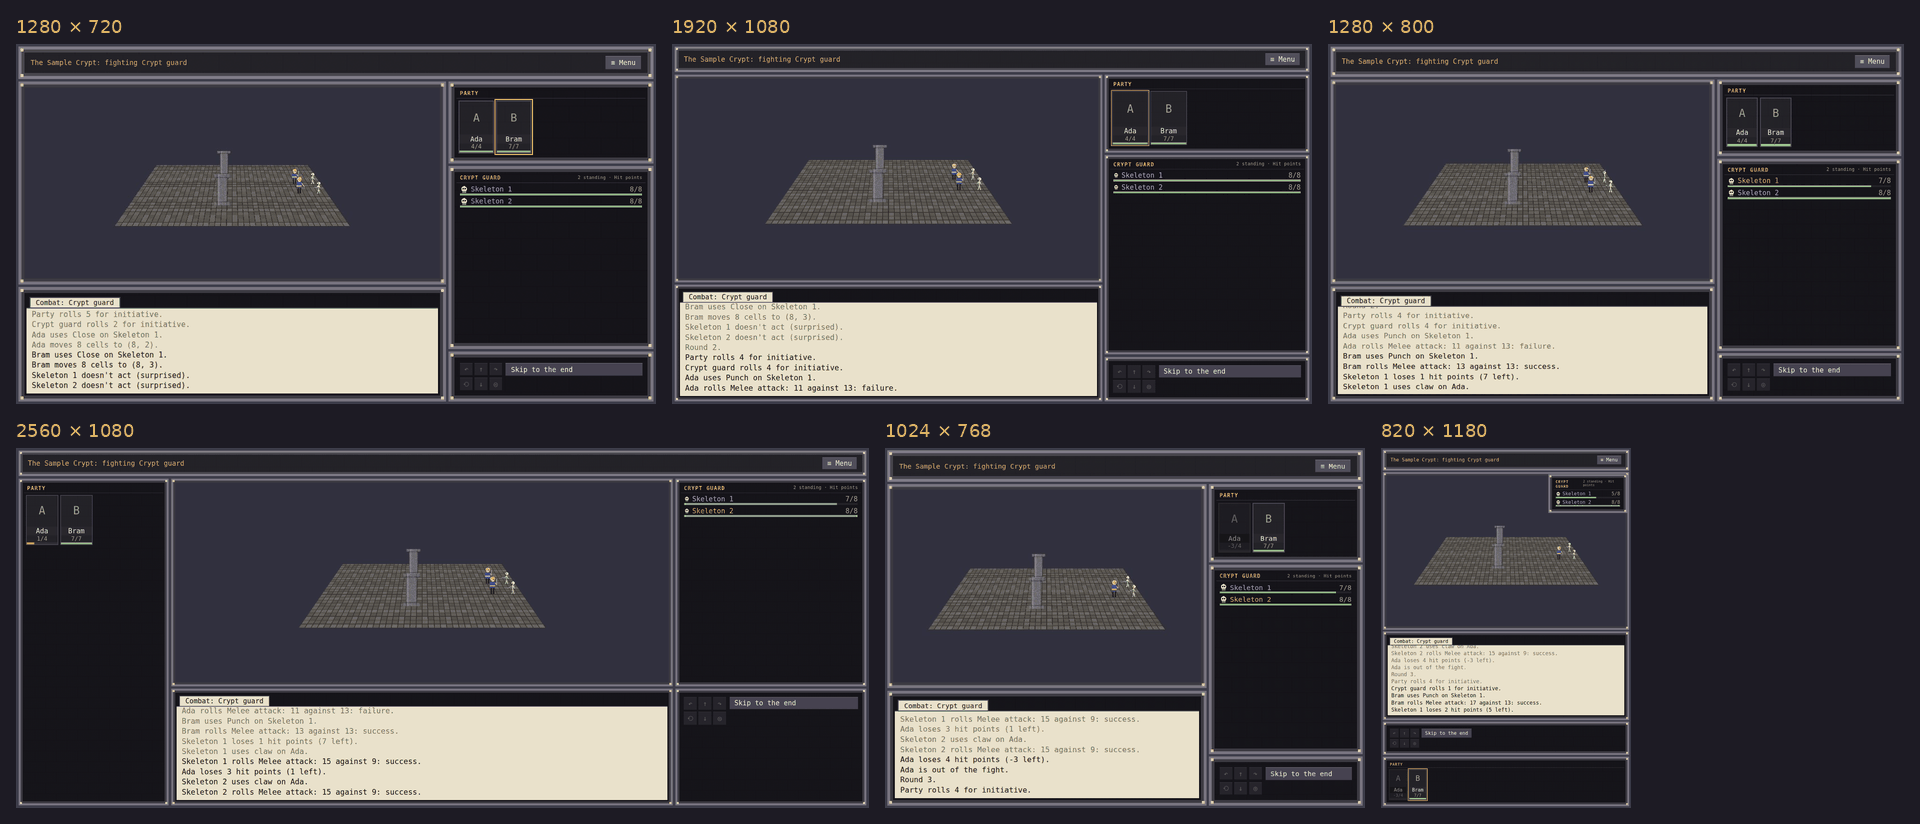
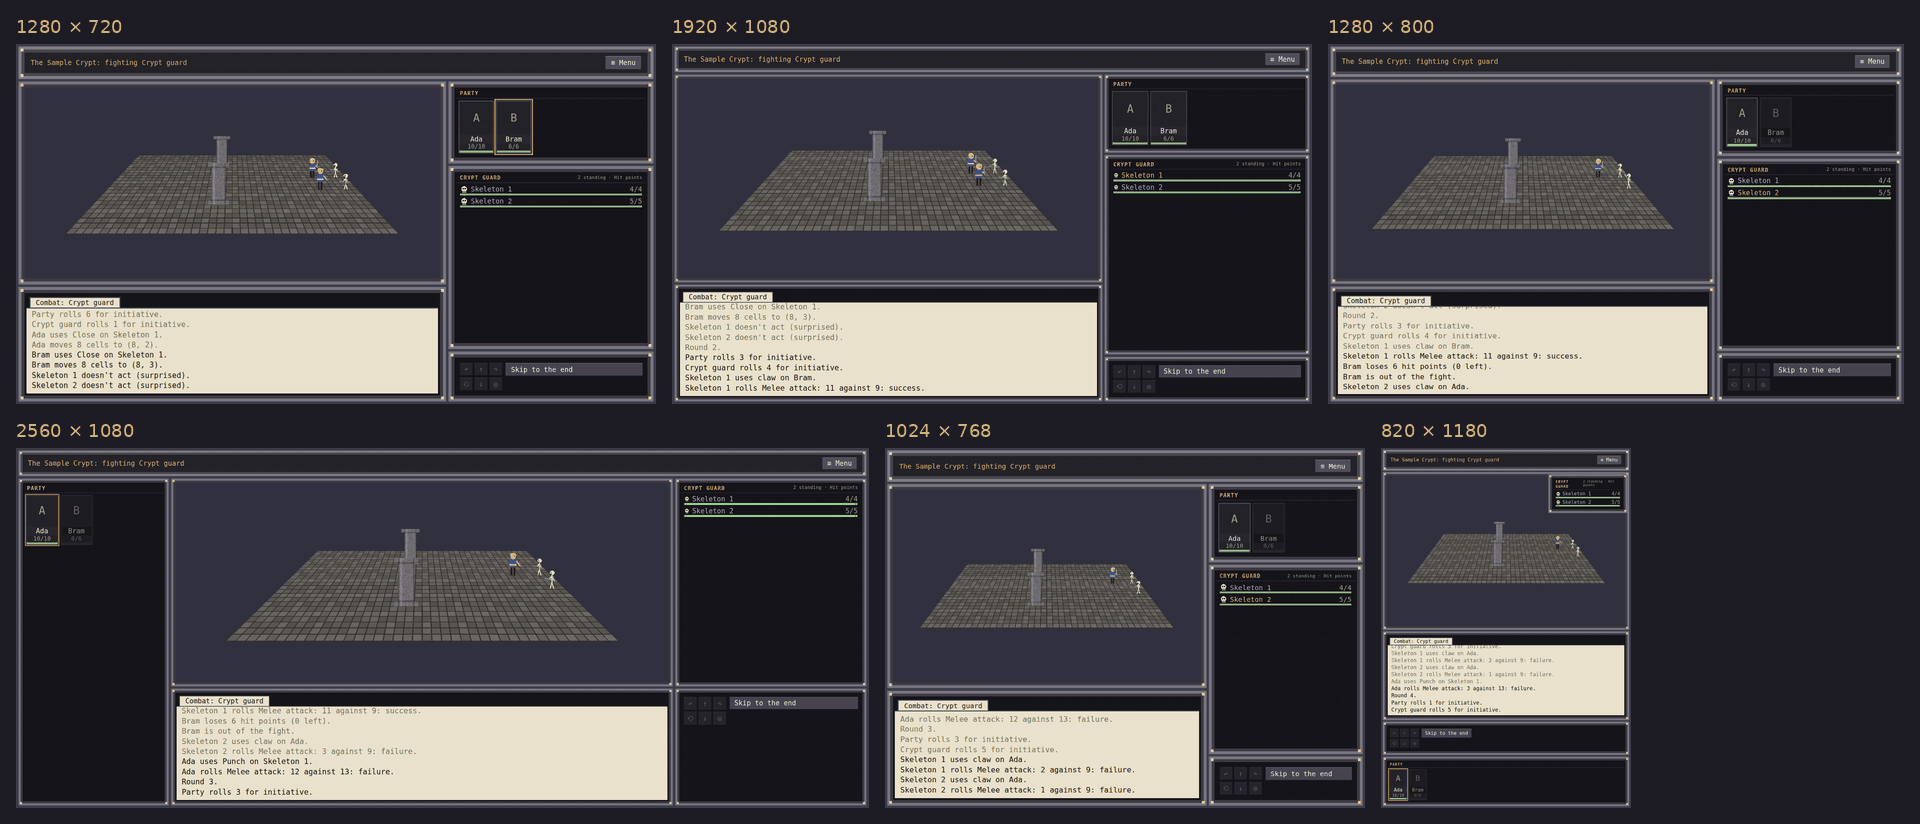
Frame the combat field to the view panel's shape
Den #9355. CombatScene.PoseFor now takes the view's aspect: straight on
and 30 degrees down, the camera stands as close as it can with every
corner of the field (and figures standing on it) inside 90% of the
frame, aimed so the field sits in the frame's middle. Wide views bring it
in, narrow and deep fields send it back.

C# can't read the anchored view's rectangle yet (filed as rusty-engine
#9361), so the panels send the view's width over its height with a
presentation-only `view-aspect` action when it changes and once more
shortly after. The layout evidence is recaptured.

diff --git a/src/ui/main.js b/src/ui/main.js
@@ -127,6 +127,30 @@ export function mountProductUi(root, context) {
   // every resize and layout change (SceneView anchors the camera to "hero").
   const removeAnchor = context?.viewport?.anchor?.('hero', viewSurface);
   const resized = new ResizeObserver(arrange);
+
+  // The combat camera frames the field to the view's shape, which the Game
+  // can't read yet: send the view's width over its height when it changes,
+  // and once more a moment after, as the host drops claims made while it
+  // rebinds the runtime after a resize.
+  let sentAspect = 0;
+  let aspectTimer = 0;
+  const sendAspect = (again) => {
+    if (!viewSurface.isConnected || viewSurface.clientWidth === 0 || viewSurface.clientHeight === 0) {
+      return;
+    }
+
+    const aspect = Math.round((viewSurface.clientWidth / viewSurface.clientHeight) * 100) / 100;
+    if (aspect !== sentAspect || again) {
+      sentAspect = aspect;
+      send({ action: 'view-aspect', aspect });
+    }
+  };
+  const viewResized = new ResizeObserver(() => {
+    sendAspect(false);
+    clearTimeout(aspectTimer);
+    aspectTimer = setTimeout(() => sendAspect(true), 600);
+  });
+  viewResized.observe(viewSurface);
   resized.observe(panel);
   arrange();
 
@@ -183,6 +207,8 @@ export function mountProductUi(root, context) {
       unsubscribe?.();
       resized.disconnect();
       removeAnchor?.();
+      viewResized.disconnect();
+      clearTimeout(aspectTimer);
       log.dispose();
       map.dispose();
       panel.remove();

diff --git a/src/RustyGoldbox.Game/Presentation/CombatScene.cs b/src/RustyGoldbox.Game/Presentation/CombatScene.cs
@@ -52,13 +52,83 @@ internal sealed class CombatScene : IDisposable
     /// <summary>The combat camera's vertical field of view: narrower than the corridor's, framing the field.</summary>
     public const double FieldOfView = 46;
 
-    /// <summary>Where the camera stands for the current field: straight on, centred, 30 degrees down, further back for a wider field.</summary>
-    public CameraPose Pose => PoseFor(_width, _depth);
+    /// <summary>How far the camera looks down, in degrees.</summary>
+    private const double Pitch = 30;
 
-    public static CameraPose PoseFor(int width, int depth)
+    /// <summary>How tall a figure stands, in cells, so the far row's heads stay in the frame.</summary>
+    private const double FigureHeight = 1.3;
+
+    /// <summary>How much of the frame the field may fill, leaving a margin on every side.</summary>
+    private const double Fill = 0.9;
+
+    /// <summary>Where the camera stands for the current field in a view of the given width-to-height <paramref name="aspect"/>.</summary>
+    public CameraPose PoseIn(double aspect) => PoseFor(_width, _depth, aspect);
+
+    /// <summary>
+    /// Straight on, centred and 30 degrees down, as close as it can stand
+    /// with the whole field and the figures on it inside the frame: a wide
+    /// view brings it closer, a narrow or deep one sends it back.
+    /// </summary>
+    public static CameraPose PoseFor(int width, int depth, double aspect)
     {
-        float back = 4.6f + (Math.Max(0, Math.Max(width - Width, depth - Depth)) * 1.4f);
-        return new CameraPose(new Vector3(width / 2f, 3.2f + (back - 4.6f) * 0.55f, (depth / 2f) + back), -30, 0);
+        double pitch = Pitch * Math.PI / 180;
+        Vector3 forward = new(0, (float)-Math.Sin(pitch), (float)-Math.Cos(pitch));
+        Vector3 up = new(0, (float)Math.Cos(pitch), (float)-Math.Sin(pitch));
+        Vector3 centre = new(width / 2f, 0, depth / 2f);
+        double tanY = Math.Tan(FieldOfView * Math.PI / 360);
+        double tanX = tanY * Math.Max(0.1, aspect);
+        Vector3[] corners =
+        [
+            new(0, 0, 0), new(width, 0, 0), new(0, 0, depth), new(width, 0, depth),
+            new(0, (float)FigureHeight, 0), new(width, (float)FigureHeight, 0), new(0, (float)FigureHeight, depth), new(width, (float)FigureHeight, depth),
+        ];
+
+        // Where each corner shows in the frame from an eye: -1 to 1 across and up, or null behind the camera.
+        (double X, double Y)? Seen(Vector3 eye, Vector3 corner)
+        {
+            Vector3 seen = corner - eye;
+            double ahead = Vector3.Dot(seen, forward);
+            return ahead <= 0.1 ? null : (seen.X / (ahead * tanX), Vector3.Dot(seen, up) / (ahead * tanY));
+        }
+
+        bool Fits(Vector3 eye)
+        {
+            return corners.All(corner => Seen(eye, corner) is var (x, y) && Math.Abs(x) <= Fill && Math.Abs(y) <= Fill);
+        }
+
+        // The field shrinks in the frame as the camera backs away, so the closest distance that fits is a bisection.
+        Vector3 Closest(Vector3 target)
+        {
+            double near = 0.5;
+            double far = 4 * (width + depth + 4);
+            for (int step = 0; step < 40; step++)
+            {
+                double middle = (near + far) / 2;
+                if (Fits(target - (forward * (float)middle)))
+                {
+                    far = middle;
+                }
+                else
+                {
+                    near = middle;
+                }
+            }
+
+            return target - (forward * (float)far);
+        }
+
+        // Looking down, the field's near edge sits low and the far edge high but not as far; aim
+        // a little off the centre so the field sits in the middle of the frame, then close in again.
+        Vector3 target = centre;
+        for (int pass = 0; pass < 3; pass++)
+        {
+            Vector3 eye = Closest(target);
+            List<double> heights = corners.Select(corner => Seen(eye, corner)!.Value.Y).ToList();
+            double middle = (heights.Min() + heights.Max()) / 2;
+            target += up * (float)(middle * Vector3.Distance(eye, target) * tanY);
+        }
+
+        return new CameraPose(Closest(target), -Pitch, 0);
     }
 
     /// <summary>Adds the scene for <paramref name="fight"/>, building it when the fight is new.</summary>

diff --git a/tests/RustyGoldbox.Tests/FirstPersonTests.cs b/tests/RustyGoldbox.Tests/FirstPersonTests.cs
@@ -98,4 +98,47 @@ public sealed class FirstPersonTests
             yield return (geometry.Normals[start], centre, geometry.Uvs.Skip(start).Take(4).Min(uv => uv.X));
         }
     }
+
+    [Fact]
+    public void TheCombatCameraFramesTheFieldToTheViewsShape()
+    {
+        CameraPose narrow = CombatScene.PoseFor(15, 9, 1.0);
+        CameraPose wide = CombatScene.PoseFor(15, 9, 2.4);
+
+        // Straight on, centred, looking down; a wide view lets it stand closer than a square one.
+        Assert.Equal(7.5f, wide.Position.X, 3);
+        Assert.Equal(-30, wide.PitchDegrees, 3);
+        Assert.True(Vector3.Distance(wide.Position, new Vector3(7.5f, 0, 4.5f)) < Vector3.Distance(narrow.Position, new Vector3(7.5f, 0, 4.5f)));
+
+        // The field fills the frame: every corner is inside it, and some corner reaches its margin.
+        foreach ((CameraPose pose, double aspect) in new[] { (narrow, 1.0), (wide, 2.4) })
+        {
+            double reach = Reach(pose, 15, 9, aspect);
+            Assert.InRange(reach, 0.85, 0.9001);
+        }
+    }
+
+    /// <summary>How far toward the frame's edge the field's furthest corner (with figures standing on it) appears, from 0 at the centre to 1 at the edge.</summary>
+    private static double Reach(CameraPose pose, int width, int depth, double aspect)
+    {
+        double pitch = 30 * Math.PI / 180;
+        Vector3 forward = new(0, (float)-Math.Sin(pitch), (float)-Math.Cos(pitch));
+        Vector3 up = new(0, (float)Math.Cos(pitch), (float)-Math.Sin(pitch));
+        double tanY = Math.Tan(CombatScene.FieldOfView * Math.PI / 360);
+        double reach = 0;
+        foreach (float x in new[] { 0f, width })
+        {
+            foreach (float y in new[] { 0f, 1.3f })
+            {
+                foreach (float z in new[] { 0f, depth })
+                {
+                    Vector3 seen = new Vector3(x, y, z) - pose.Position;
+                    double ahead = Vector3.Dot(seen, forward);
+                    reach = Math.Max(reach, Math.Max(Math.Abs(seen.X) / (ahead * tanY * aspect), Math.Abs(Vector3.Dot(seen, up)) / (ahead * tanY)));
+                }
+            }
+        }
+
+        return reach;
+    }
 }

diff --git a/src/RustyGoldbox.Game/GameCommands.cs b/src/RustyGoldbox.Game/GameCommands.cs
@@ -181,12 +181,15 @@ internal static class GameCommands
                     session.SetLayout(LayoutConfig(payload));
                     SaveSettings(session, engine);
                     break;
+                case "view-aspect":
+                    session.ViewAspect = Aspect(payload);
+                    break;
                 case "ui-scale":
                     session.SetUiScale(Number(payload, "scale"));
                     SaveSettings(session, engine);
                     break;
                 default:
-                    throw new PayloadException($"'{action}' is not an action; actions are refresh, open, roll, skills, drop, equip, spells, memorise, begin, play, continue, save, load, quit, volume, skin, layout-config and ui-scale");
+                    throw new PayloadException($"'{action}' is not an action; actions are refresh, open, roll, skills, drop, equip, spells, memorise, begin, play, continue, save, load, quit, volume, skin, layout-config, ui-scale and view-aspect");
             }
         }
         catch (PayloadException exception)
@@ -236,6 +239,13 @@ internal static class GameCommands
         {
             session.Notes.Add($"Can't keep the settings for next time: {exception.Message}");
         }
+    }
+
+    /// <summary>The view panel's width over its height: <c>"aspect": number</c>, from a tenth to ten.</summary>
+    private static double Aspect(JsonElement payload)
+    {
+        double aspect = Number(payload, "aspect");
+        return aspect is >= 0.1 and <= 10 ? aspect : throw new PayloadException("\"aspect\" must be the view's width over its height, from 0.1 to 10");
     }
 
     private static double Number(JsonElement payload, string field)

diff --git a/tests/RustyGoldbox.Tests/GameTests.cs b/tests/RustyGoldbox.Tests/GameTests.cs
@@ -234,6 +234,24 @@ public sealed class GameTests
     }
 
     [Fact]
+    public void TheViewsAspectIsKeptForTheCombatCamera()
+    {
+        using TempModules scratch = new();
+        using EngineTestHost host = EngineTestHost.Create();
+        host.Call(engine =>
+        {
+            GameSession session = OpenSession(scratch, engine);
+            Run(session, engine, """{ "action": "view-aspect", "aspect": 2.35 }""");
+            Assert.Equal(2.35, session.ViewAspect);
+            Assert.Empty(session.Notes);
+
+            Run(session, engine, """{ "action": "view-aspect", "aspect": 40 }""");
+            Assert.Equal(2.35, session.ViewAspect);
+            Assert.Contains("\"aspect\" must be the view's width over its height", Assert.Single(session.Notes), StringComparison.Ordinal);
+        });
+    }
+
+    [Fact]
     public void AMembersTracksReachTheProjectionAsValuesWithTheFoughtTrackVital()
     {
         using TempModules scratch = new();

diff --git a/src/RustyGoldbox.Game/GameSession.cs b/src/RustyGoldbox.Game/GameSession.cs
@@ -67,6 +67,13 @@ internal sealed class GameSession(ModuleLibrary library)
     /// <summary>The play transcript's latest lines, oldest first.</summary>
     public List<string> Log { get; } = [];
 
+    /// <summary>
+    /// The view panel's width over its height, as the panels report it, so the
+    /// combat camera can frame the field to it. Presentation only, never saved;
+    /// it stands in until the Engine reports an anchored view's rectangle.
+    /// </summary>
+    public double ViewAspect { get; set; } = 16.0 / 9;
+
     /// <summary>The player's interface scale, which the panels give the Engine's UI scale; kept with the settings.</summary>
     public double UiScale { get; private set; } = 1;
 

diff --git a/src/RustyGoldbox.Game/Presentation/SceneView.cs b/src/RustyGoldbox.Game/Presentation/SceneView.cs
@@ -81,7 +81,7 @@ internal sealed class SceneView : IDisposable
                     key => fight.Fight.Field is CombatField field && rules.TerrainFigures.TryGetValue((field.Combat, key), out Definition? sprite) ? SpriteArtOf(rules, session.Set, sprite!) : null,
                     Floor(rules, session.Set, state.Area),
                     facts);
-                _engine.CameraView.UpdateCamera(new CameraUpdateRequest(_camera, Camera(_combat.Pose, CombatScene.FieldOfView)));
+                _engine.CameraView.UpdateCamera(new CameraUpdateRequest(_camera, Camera(_combat.PoseIn(session.ViewAspect), CombatScene.FieldOfView)));
             }
             else if (session.Screen == Screen.Play)
             {

diff --git a/docs/architecture.md b/docs/architecture.md
@@ -251,7 +251,7 @@ only when something changed. Agent playtests can hold time with the Engine's
 `goldbox.command` intent with `goldbox.command.v1` payloads that the DOM
 claims (`{ "action": ..., fields }`: refresh, open, roll, skills, equip, spells, memorise, drop,
 begin, play, continue, save, load, quit, volume, skin, layout-config (the player's panel
-proportions) and ui-scale), plus digital intents mapped from keys: arrows and
+proportions), ui-scale and view-aspect), plus digital intents mapped from keys: arrows and
 WASD move and turn, X turns around, L looks, digits choose menu options.
 Payloads come from the page, so `GameCommands` checks every field once and
 turns a bad one into a note; a key intent acts on a key press or on a UI claim
@@ -276,7 +276,12 @@ camera to `hero` (`CameraView.SetViewportAnchor`), the UI anchors the panel's
 inside under the same name, and the Engine keeps the camera's views over that
 element through resizes with no product code; the camera's own viewport (the
 whole window) applies only until a page anchors it. The vertical field of view
-holds, so a wider panel sees more to the sides. A sprite's placement (an event
+holds, so a wider panel sees more to the sides. The combat camera frames the
+field to the view's shape (`CombatScene.PoseFor`): straight on and 30 degrees
+down, it stands as close as it can with every corner of the field, and
+figures standing on it, inside 90% of the frame, aimed so the field sits in
+the frame's middle. The view's aspect comes from the panels (`view-aspect`)
+until the Engine reports an anchored view's rectangle (rusty-engine #9361). A sprite's placement (an event
 picture's) is within the camera's viewport. The area becomes one generated mesh: each wall, door or
 secret door on a cell edge is a quad facing into that cell (back faces are not
 drawn), and each cell has a floor and a ceiling, textured from the area's
@@ -311,7 +316,7 @@ When a play command's facts include a fight (`FightFact`, which carries each
 combatant's side, monster or class, and start on the combat's track), the
 session switches to the combat screen and a `FightReplay` shows its facts one
 beat at a time. The scene draws each combatant with the sprite its monster or
-class has a `figure` for, under a camera straight on and 30 degrees down;
+class has a `figure` for, under a camera straight on and 30 degrees down, framed to the view (above);
 figures are spherical billboards so they stay upright under that camera.
 Continue (a button, Enter or Space) skips to the end, then returns to play.
 Play commands wait until then.

diff --git a/docs/ui.md b/docs/ui.md
@@ -15,7 +15,12 @@ frame leaves clear; its shadow paints the gaps between the other panels.
 The UI anchors the view's inside (`.gb-view-surface`) under the name `hero`
 with `context.viewport.anchor`, and the Game anchors its camera to the same
 name, so the Engine draws the world there through every resize and layout
-change without the UI or the Game doing anything. Clicks
+change without the UI or the Game doing anything. The Game can't yet read
+the view's shape, which framing the combat field needs, so the UI sends the
+view's width over its height (`{ action: "view-aspect", aspect }`) when it
+changes and once more shortly after, as the host drops claims made while it
+rebinds the runtime; this stands in until the Engine reports an anchored
+view's rectangle (rusty-engine #9361). Clicks
 on the view reach the Engine canvas; every other panel is marked
 `data-rusty-ui-interactive` so it takes its own pointer input.
 
